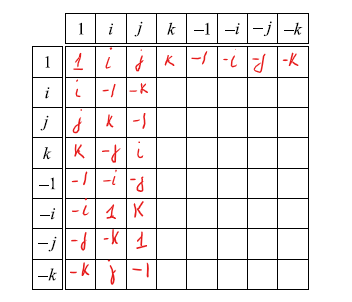
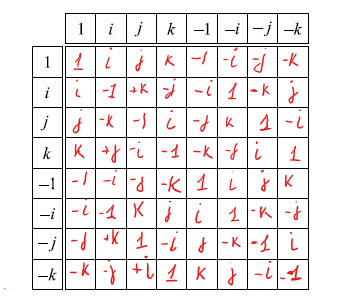
Exercise 4.6

diff --git a/4.5 Exercises.md b/4.5 Exercises.md
@@ -95,5 +95,5 @@ First, I find the element x, then follow the blue arrow, then the red arrow.
 ![Image](4.5%20Exercise%204.6a.png)
 (b) Q4, the quaternion group with eight elements, as shown on the right of Exercise 4.5.
 Use the template given here.
-![Image](4.5%20Exercise%204.6b.png) Not finished
+![Image](4.5%20Exercise%204.6b.png)
 
